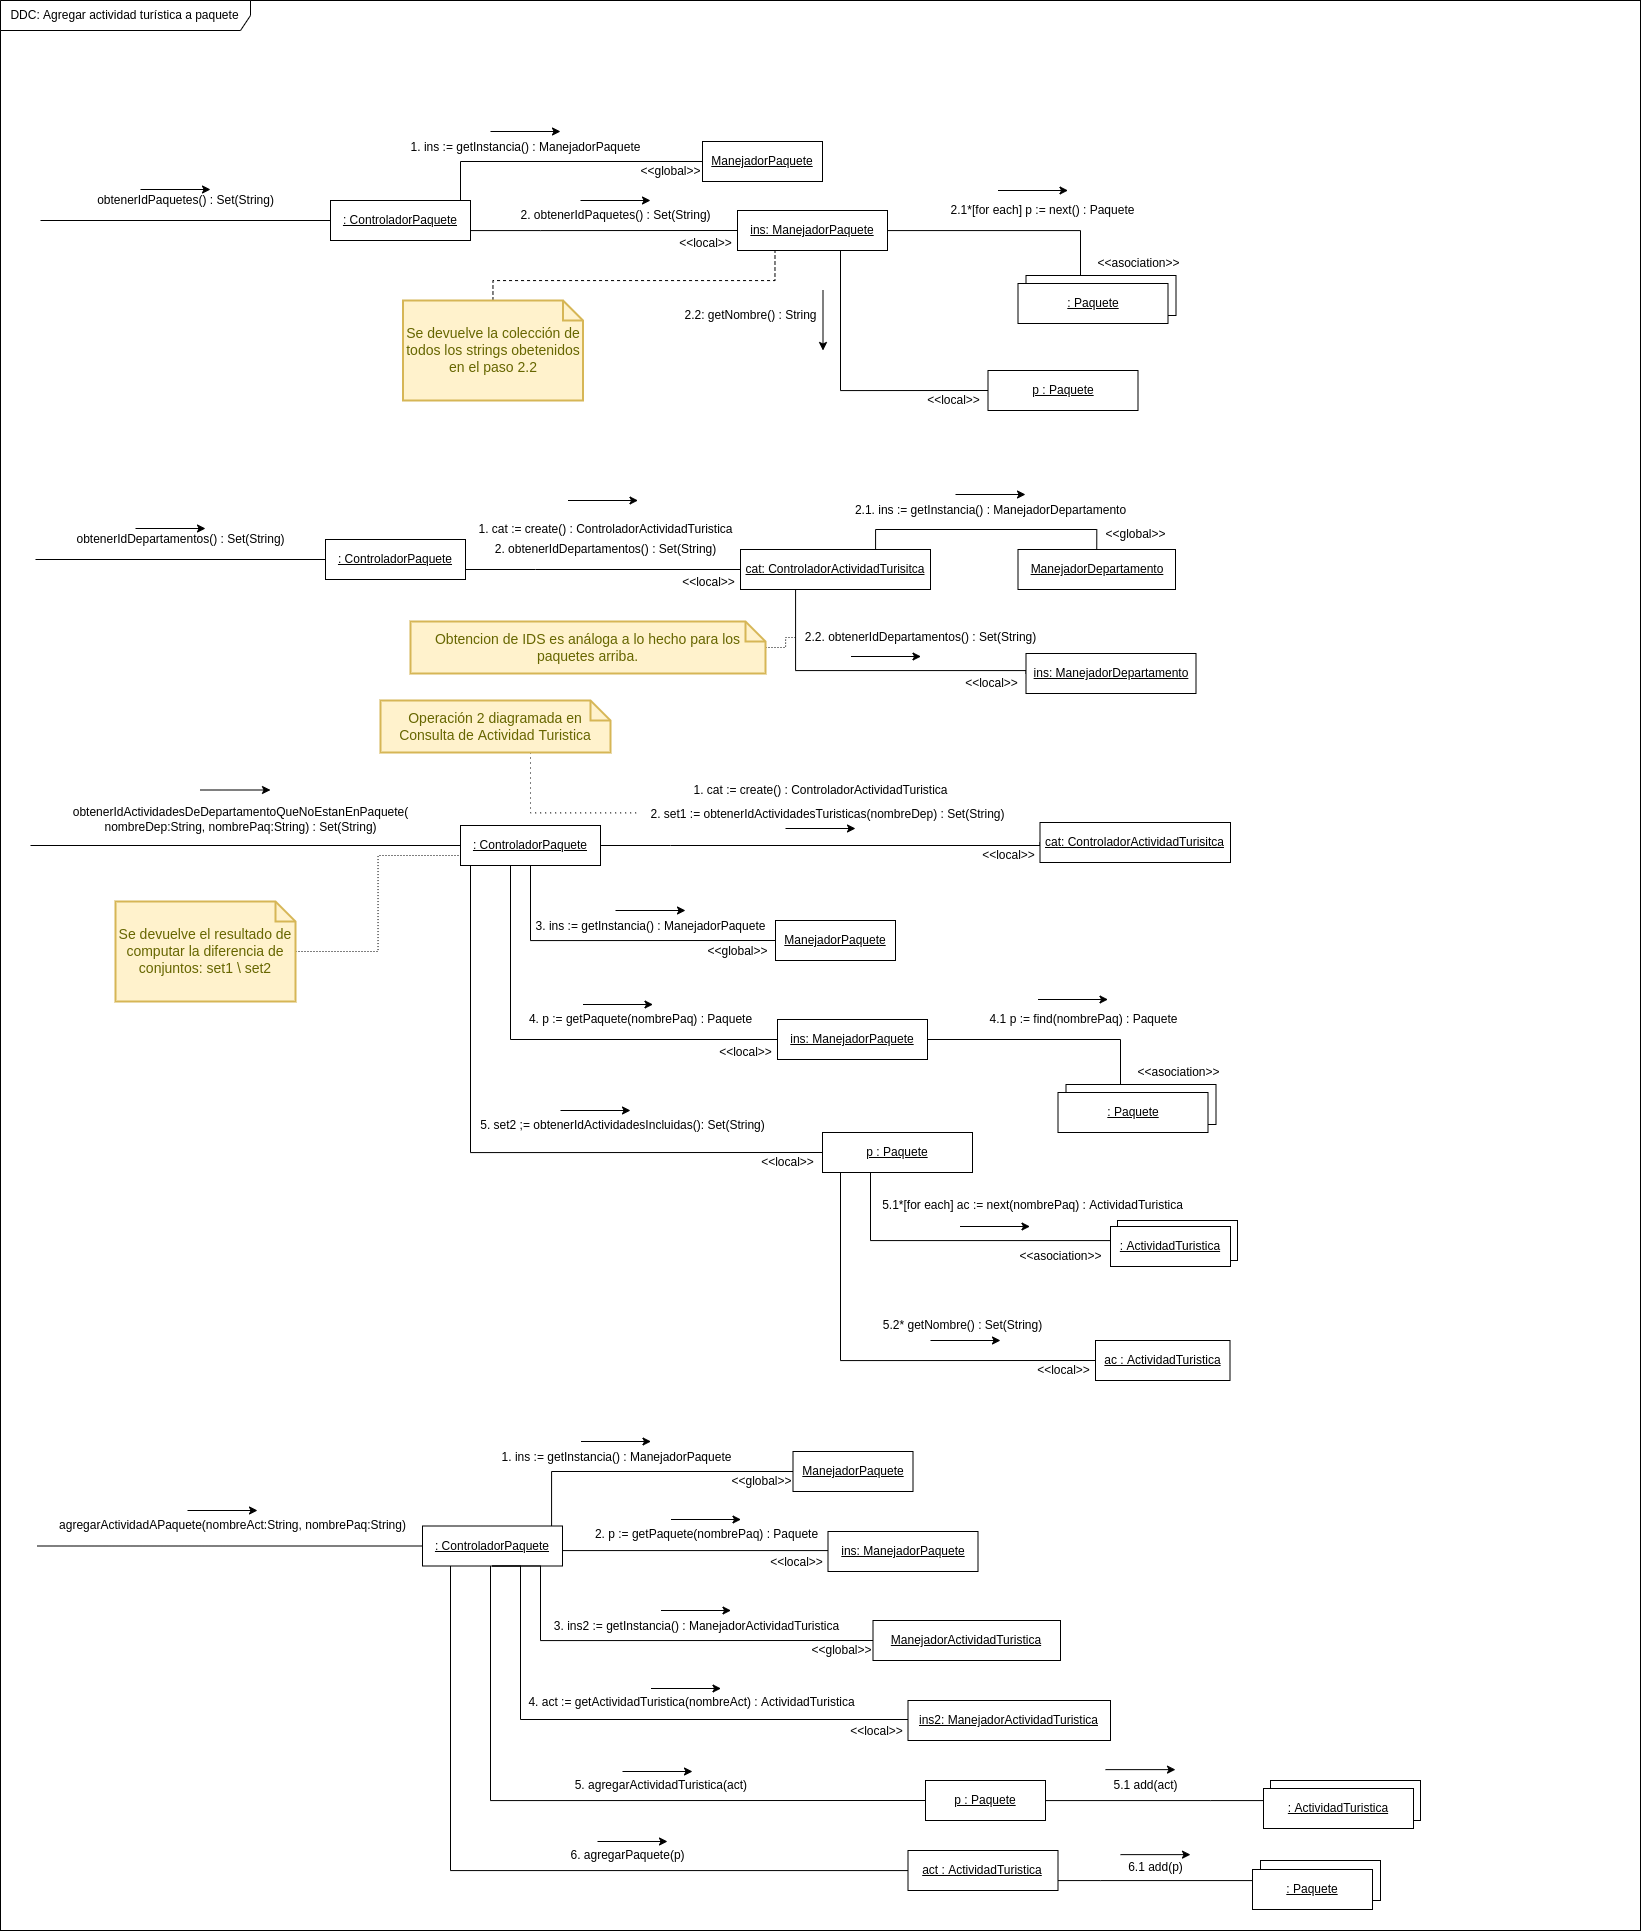
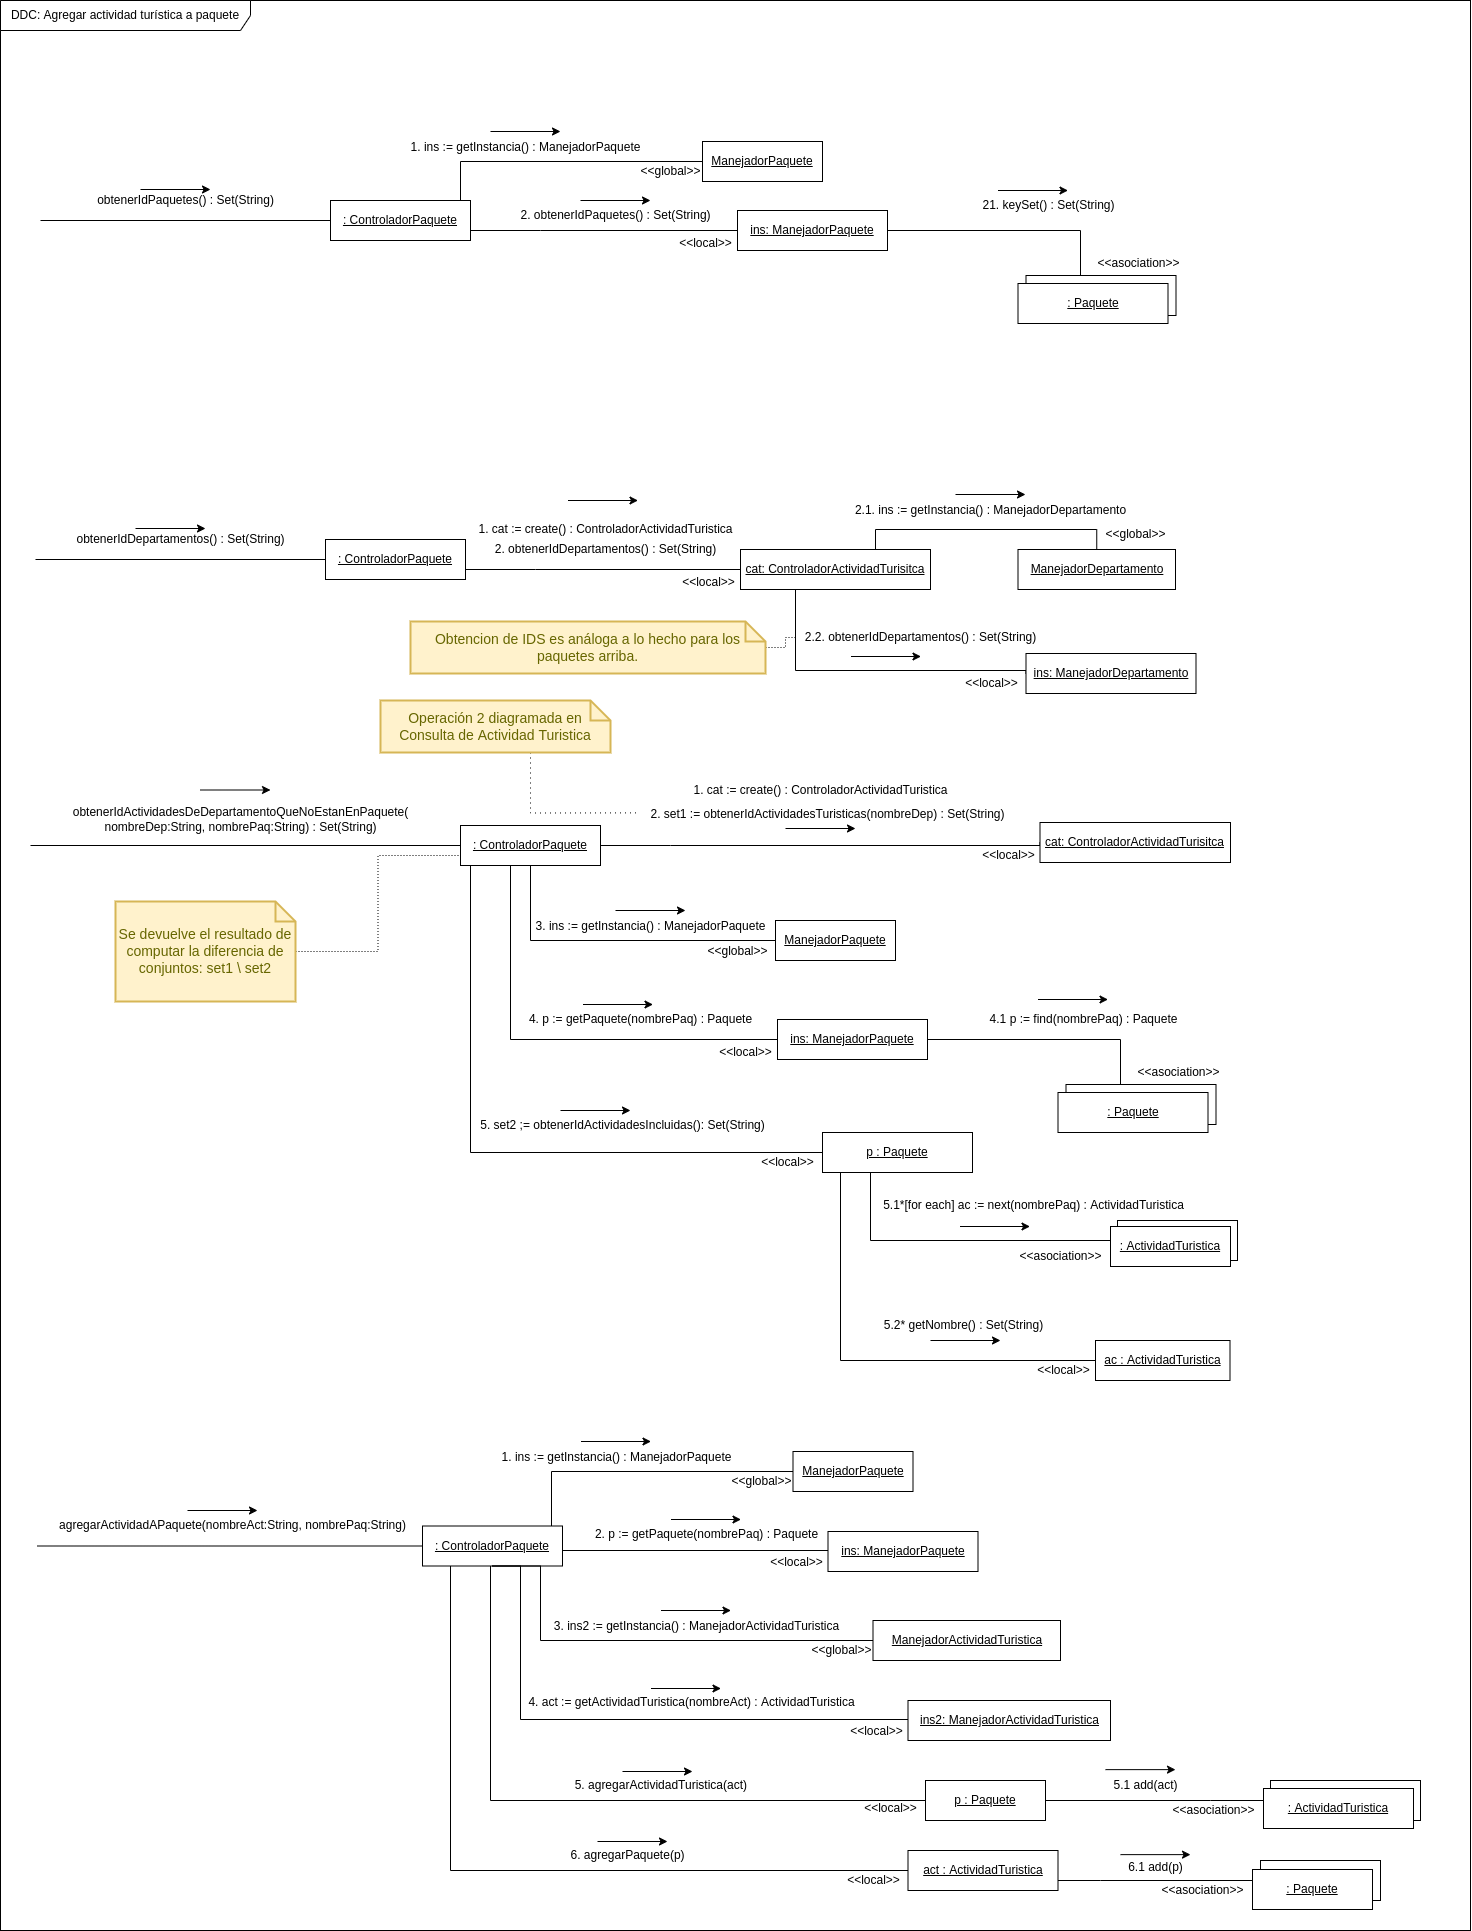
Termino capa lógica

diff --git a/Implementacion/Servidor Central/src/logica/controladores/ControladorPaquete.java b/Implementacion/Servidor Central/src/logica/controladores/ControladorPaquete.java
@@ -1,6 +1,11 @@
 package logica.controladores;
 
+import java.util.List;
+import java.util.ArrayList;
+
+import logica.entidades.ActividadTuristica;
 import logica.entidades.Paquete;
+import logica.manejadores.ManejadorActividadTuristica;
 import logica.manejadores.ManejadorPaquete;
 
 /**
@@ -20,4 +25,47 @@ public class ControladorPaquete implements IControladorPaquete{
         mp.addPaquete(paq);
         return true; 
     }
+
+	@Override
+	public List<String> obtenerIdPaquetes() {
+		ManejadorPaquete mp = ManejadorPaquete.getInstancia();	
+		return new ArrayList<String>(mp.obtenerIdPaquetes());
+	}
+
+	@Override
+	public List<String> obtenerIdDepartamentos() {
+		var cat = new ControladorActividadTuristica();
+		return cat.obtenerIdDepartamentos();
+	}
+
+	@Override
+	public List<String> obtenerIdActividadesDeDepartamentoQueNoEstanEnPaquete(String nombreDep, String nombrePaq) {
+		var cat = new ControladorActividadTuristica();
+		List<String> actividadesDep = cat.obtenerIdActividadesTuristicas(nombreDep);
+
+		ManejadorPaquete mp = ManejadorPaquete.getInstancia();
+		Paquete paq = mp.getPaquete(nombrePaq);
+
+		List<String> actividadesPaq = new ArrayList<String>(paq.obtenerIdActividadesIncluidas());
+
+		ArrayList<String> actividadesNoPaq = new ArrayList<String>();
+
+		for (String actividadDep : actividadesDep) {
+			if (!actividadesPaq.contains(actividadDep)) {
+				actividadesNoPaq.add(actividadDep);
+			}
+		}
+
+		return actividadesNoPaq;
+	}
+
+	@Override
+	public void agregarActividadAPaquete(String nombreAct, String nombrePaq) {
+		ManejadorPaquete mp = ManejadorPaquete.getInstancia();
+		Paquete paq = mp.getPaquete(nombrePaq);
+		ManejadorActividadTuristica mat = ManejadorActividadTuristica.getInstancia();
+		ActividadTuristica act = mat.getActividad(nombreAct);
+		paq.agregarActividad(act);
+		act.agregarPaquete(paq);
+	}
 }

diff --git a/Implementacion/Servidor Central/src/logica/controladores/IControladorPaquete.java b/Implementacion/Servidor Central/src/logica/controladores/IControladorPaquete.java
@@ -1,5 +1,7 @@
 package logica.controladores;
 
+import java.util.List;
+
 /**
  * @author Equipo taller prog 16
  */
@@ -7,5 +9,13 @@ package logica.controladores;
 
 public interface IControladorPaquete {
     public boolean altaTurista(String nombre, String descripcion, int periodovalidez, float descuento);
+    
+    public List<String> obtenerIdPaquetes();
+    
+    public List<String> obtenerIdDepartamentos();
+    
+    public List<String> obtenerIdActividadesDeDepartamentoQueNoEstanEnPaquete(String nombreDep, String nombrePaq);
+    
+    public void agregarActividadAPaquete(String nombreAct, String nombrePaq);
 
 }

diff --git a/Implementacion/Servidor Central/src/logica/entidades/Paquete.java b/Implementacion/Servidor Central/src/logica/entidades/Paquete.java
@@ -2,6 +2,7 @@ package logica.entidades;
 
 import java.util.HashMap;
 import java.util.Map;
+import java.util.Set;
 
 /**
  * @author Equipo taller prog 16
@@ -68,5 +69,13 @@ public class Paquete {
 
     public void setActividades(Map<String, ActividadTuristica> actividades) {
         this.actividades = actividades;
+    }
+    
+    public Set<String> obtenerIdActividadesIncluidas() {
+    	return actividades.keySet();
+    }
+
+    public void agregarActividad(ActividadTuristica actividad) {
+        actividades.put(actividad.getNombre(), actividad);
     }
 }

diff --git a/Implementacion/Servidor Central/src/logica/entidades/ActividadTuristica.java b/Implementacion/Servidor Central/src/logica/entidades/ActividadTuristica.java
@@ -110,4 +110,8 @@ public class ActividadTuristica {
         }
         return listaSalidas;
     }
+
+    public void agregarPaquete(Paquete paquete) {
+        this.paquetes.put(paquete.getNombre(), paquete);
+    }
 }
